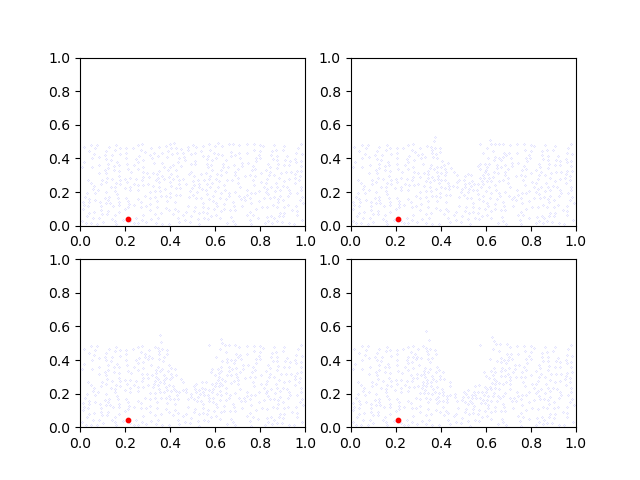
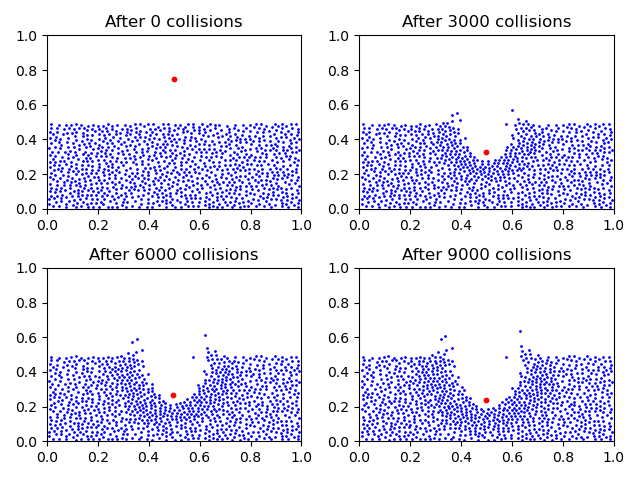
improved plot

diff --git a/problem4.py b/problem4.py
@@ -4,7 +4,7 @@ from functions import *
 
 #NOTE TO SELF: might be more effetive to write a function that just gives the positions, since these take time to calculate
 
-def initParticlesForProjectileImpact(N,m0,r0,m,r,v0): #m0 is the mass of the small particles, N=number of small particles
+def initParticlesForProjectileImpact(N,m0,r0,m,r,v): #m0 is the mass of the small particles, N=number of small particles
     #v0=downward speed of projectile particle
     print("Initializing particle array...")
     parr=np.zeros((N+1,7))
@@ -39,7 +39,7 @@ def initParticlesForProjectileImpact(N,m0,r0,m,r,v0): #m0 is the mass of the sma
     parr[N,X]=0.5
     parr[N,Y]=0.75
     parr[N,VX]=0
-    parr[N,VY]=-v0
+    parr[N,VY]=-v
     parr[N,M]=m
     parr[N,R]=r
 
@@ -71,48 +71,63 @@ def problem4Visualization(N,n,interval,start,m0,r0,m,r,v0,RC):
         plotCraterFormation(d,r0,r)
     print("done")
 
-def craterVisualization(parr,n,interval,start,RC):
-    # Xmin=0
-    # Xmax=1
-    # Ymin=0
-    # Ymax=1
-    #parr=initParticlesForProjectileImpact(N,m0,r0,m,r,v0)
-    data=simulationData(parr,n,interval,start,RC)
-    fig,ax=plt.subplots(2,2)
 
+#plots the particles positions for visualization of the formation of the crater
+def craterVisualization(parr,n,interval,start,RC):
+
+    Xmin=0
+    Xmax=1
+    Ymin=0
+    Ymax=1
+
+    data=simulationData(parr,n,interval,start,RC) #run simulation
+    fig,ax=plt.subplots(2,2)
+    N=len(parr)
+    gr=5 #radius for plotting ground particles
+    pr=20 #radius for projectile particle
+
+    #first subplot
     parr1=data[0]
     groundParticles1=parr1[:N-1]
     projectile1=parr1[N-1]
     ax[0,0].axis([Xmin,Xmax,Ymin,Ymax])
-    ax[0,0].scatter(groundParticles1[:,X],groundParticles1[:,Y],c="b",s=0.01)
-    ax[0,0].scatter(projectile1[X],projectile1[Y],c="r",s=r*r*50*50)
+    ax[0,0].scatter(groundParticles1[:,X],groundParticles1[:,Y],c="b",s=gr)
+    ax[0,0].scatter(projectile1[X],projectile1[Y],c="r",s=pr)
+    ax[0,0].set_title("After "+str(0)+" collisions")
 
+    #second subplot
     parr2=data[1]
     groundParticles2=parr2[:N-1]
     projectile2=parr2[N-1]
     ax[0,1].axis([Xmin,Xmax,Ymin,Ymax])
-    ax[0,1].scatter(groundParticles2[:,X],groundParticles2[:,Y],c="b",s=0.01)
-    ax[0,1].scatter(projectile2[X],projectile2[Y],c="r",s=r*r*50*50)
+    ax[0,1].scatter(groundParticles2[:,X],groundParticles2[:,Y],c="b",s=gr)
+    ax[0,1].scatter(projectile2[X],projectile2[Y],c="r",s=pr)
+    ax[0,1].set_title("After "+str(interval)+" collisions")
 
+    #third subplot
     parr3=data[2]
     groundParticles3=parr3[:N-1]
     projectile3=parr3[N-1]
     ax[1,0].axis([Xmin,Xmax,Ymin,Ymax])
-    ax[1,0].scatter(groundParticles3[:,X],groundParticles3[:,Y],c="b",s=0.01)
-    ax[1,0].scatter(projectile3[X],projectile3[Y],c="r",s=r*r*50*50)
+    ax[1,0].scatter(groundParticles3[:,X],groundParticles3[:,Y],c="b",s=gr)
+    ax[1,0].scatter(projectile3[X],projectile3[Y],c="r",s=pr)
+    ax[1,0].set_title("After "+str(interval*2)+" collisions")
 
+    #fourth subplot
     parr4=data[3]
     groundParticles4=parr4[:N-1]
     projectile4=parr4[N-1]
     ax[1,1].axis([Xmin,Xmax,Ymin,Ymax])
-    ax[1,1].scatter(groundParticles4[:,X],groundParticles4[:,Y],c="b",s=0.01)
-    ax[1,1].scatter(projectile4[X],projectile4[Y],c="r",s=r*r*50*50)
-
+    ax[1,1].scatter(groundParticles4[:,X],groundParticles4[:,Y],c="b",s=gr)
+    ax[1,1].scatter(projectile4[X],projectile4[Y],c="r",s=pr)
+    ax[1,1].set_title("After "+str(interval*3)+" collisions")
+    
+    plt.tight_layout()
     fig.savefig("p4Visualization")
     plt.show()
 
 
-
+#used to check how the energy changes
 def craterSimulation(parr,N,interval,RC):
 
     #initialization
@@ -130,8 +145,6 @@ def craterSimulation(parr,N,interval,RC):
 
 #notes: projectil energy decreases the whole time
 #ground particle energy increases, because they get energy from the projectile
- 
-
 
 
 
@@ -170,15 +183,15 @@ def massCraterSize(initialParr,masslist,N,interval,RC): #masslist is a list of m
 
 
 """values for the different parameters"""
-N=500 #number of ground particles
-n=8000 #number of collisions in simulation
+N=1000 #number of ground particles
+n=9000 #number of collisions in simulation
 interval=10 #interval between data sampling
 start=0 #start of data sampling
 m0=1#mass of ground particles
 r0=np.sqrt(1/(N*4*math.pi)) #radius of mass particles
-m=m0*10 #mass of projectile partile (as stated in problem text)
+m=m0*25 #mass of projectile partile (as stated in problem text)
 r=r0*5 #radius of projectile particle
-v0=5 #initial velocity of projectile particle
+v=5 #initial velocity of projectile particle
 RC=0.5
 
 
@@ -188,23 +201,24 @@ RC=0.5
 #0.9 for faster init!!!!!
 
 
-massList=np.linspace(m0,30*m0,5)
+#massList=np.linspace(m0,30*m0,5)
 
 """Initializing particle array"""
-#parr=initParticlesForProjectileImpact(N,m0,r0,m,r,v0)
+#parr=initParticlesForProjectileImpact(N,m0,r0,m,r,v)
 #np.save("particleArray.npy",parr) #save array as binary file
 
 initParticleArray=np.load("particleArray.npy")
-print("ok")
-newArray=initParticleArray.copy()
-newArray[N,M]=m
+# newArray=initParticleArray.copy()
+# newArray[N,M]=m
 
 
 
 #craterSimulation(newArray,N,100,RC)
 
-craterVisualization(initParticleArray,n,2000,0,RC)
+parrC=initParticlesForProjectileImpact(N,m0,r0,m,r,v)
+craterVisualization(parrC,n,3000,0,RC)
 
+#massList=[m0,7.5*m0,15*m0]
 #massCraterSize(initParticleArray,massList,N,interval,RC)
 
 #plotParameterVsCraterSize("MassCrater.npy","Projectile Mass","MassVsCraterPlot")

diff --git a/simulation.py b/simulation.py
@@ -9,10 +9,6 @@ from numba import jit
 #%load_ext line_profiler
 random.seed(1)
 
-
-#NOTE TO SELF: should probably calculate new collisions for ALL particles after every collision?
-#or make some kind of list to keep track of which particles have saved a collision with each current particle...
-
 """Colission count:
 The first element for each particle list is the particles current collision count
 Update the particles collision count for every collision
@@ -177,25 +173,19 @@ def nextHorizontalCollision(parr,i,events,time):
  
 
 
-#GANSKE JALLA Å BARE TA UT DELER AV FUNKSJONEN FOR Å JITTE DE MEN WHATEVER
 
+#optimalize calculation speed
 @jit(nopython = True)
 def computeStuff(i,j,parr):
-    Rij=parr[i,R]+parr[j,R] #radiuses added together??
+    Rij=parr[i,R]+parr[j,R] #radiuses added together
     deltaX=np.array([(parr[j,X]-parr[i,X]),(parr[j,Y]-parr[i,Y])])
-    deltaV=np.array([(parr[j,VX]-parr[i,VX]),(parr[j,VY]-parr[i,VY])])
+    deltaV=np.array([(parr[j,VX]-parr[i,VX]),(parr[j,VY]-parr[i,VY])]) #calculation as given in problem text
     VdotX=(np.dot(deltaV,deltaX))
     d=(VdotX)*(VdotX)-(np.dot(deltaV,deltaV))*((np.dot(deltaX,deltaX))-Rij*Rij)
-    return deltaX,deltaV,d,VdotX
+    return deltaX,deltaV,d,VdotX 
 
-"""
-@jit(nopython = True)
-def calculateDt(deltaV,deltaX,d):
-    return -(np.dot(deltaV,deltaX)+np.sqrt(d))/np.dot(deltaV,deltaV)
-    """
 
 #@jit(nopython = True)
-#FEIL svar når partiklene er inni hverandre
 def particlesColTime(i,j,parr,events,time): #p1 and p2 is the index of the particles rows in parr 
     deltaX, deltaV, d,VdotX=computeStuff(i,j,parr)
 
@@ -207,8 +197,6 @@ def particlesColTime(i,j,parr,events,time): #p1 and p2 is the index of the parti
         e=[deltaT+time,i,j,parr[i,C],parr[j,C]]  #last 2 entries are the current collisioncount for particles i and
         heapq.heappush(events,e)  #add event to heapq
 
-        #(parr[i,PL]).append(j)
-        #(parr[j, PL]).append(i)   #REMOVE??
 
 
 
@@ -285,14 +273,12 @@ def runSimulation(n,events,parr, t0,RC): #n is the number of valid iterations/co
                 Time=CollisionTime #updating time
                 nextCollisions(parr,events,cc[I],CollisionTime) #calculate new collisions for the colliding particle
                 k+=1
-                #print("Collision number: ",k," Time: ",Time,"\n")
 
             elif (cc[J]==-1): #if collision with horizontal wall
                 horizontalCollision(parr,cc[I],dt,RC)
                 Time=CollisionTime #updating time
                 nextCollisions(parr,events,cc[I],CollisionTime) #calculate new collisions for the colliding particle:
                 k+=1
-                #print("Collision number: ",k," Time: ",Time,"\n")
 
             elif (parr[cc[J],C]==cc[CCJ]): #if valid for second particle
                     particleCollision(parr,cc[I],cc[J],dt,RC)
@@ -300,28 +286,26 @@ def runSimulation(n,events,parr, t0,RC): #n is the number of valid iterations/co
                     Time=CollisionTime #updating time
                     nextCollisions(parr,events,cc[I],CollisionTime) #calculate new collisions for the colliding particle
                     k+=1
-                    #print("Collision number: ",k," Time: ",Time,"\n")
 
             if (k%1000==0): #just to keep track of how much time is left
                 print("collision number",k)
             
-    return Time     #return time at the end of the simulation    
+    return Time     #return current time at the end of the simulation    
 
                      
 
-
+#just runs the simulation for a given particle array
 def simulation(particleArray,n,RC): #particles, number of iterations in simulation
     eventQueue=firstCollisions(particleArray)
-    #plotPositionsAndVelocities(parrTest)
     runSimulation(n,eventQueue,particleArray,0,RC)
-    #plotPositionsAndVelocities(parrTest)
     return particleArray
 
+#runs the simulation for a given particle array, but saves data at given interval
 def simulationData(particleArray,n,interval,start,RC): #start=number of collisions before starting sampling, interval=number of collisions between sampling
     eventQueue=firstCollisions(particleArray)
     data=[]
     print("start")
-    if (start==0):
+    if (start==0): #copy initial array only if start of sampling set to zero
         data.append(particleArray.copy())
     Time=0.0 #set start time to zero
     for i in range(int(n/interval)+1):
@@ -329,7 +313,6 @@ def simulationData(particleArray,n,interval,start,RC): #start=number of collisio
         if (i*interval>=start): #save data
             print("data saved")
             data.append(particleArray.copy()) 
-        print(i*100*interval/n,"%")
     return data
 
 

diff --git a/functions.py b/functions.py
@@ -1,18 +1,20 @@
 import numpy as np
 from simulation import *
 
+
+#get the absoute values of the velocity for each particle in Parr
 def getVelocities(Parr):
     velocities=[]
     for p in Parr:
         velocities.append(np.sqrt(p[VX]*p[VX]+p[VY]*p[VY]))
     return velocities
 
-
+#plotting histogram of velocities
 def histogram(velocities):
     plt.hist(velocities,bins=101,density=True)
 
 
-#NB 2 degrees of freedom!!!!!!!!!!!!!!!!!!
+#NB 2 degrees 
 def HistogramMB(velocities,m,filename): #filename is a string containing the name to save the file as
     v=np.linspace(0,4)
     averageVelocity=np.sum(velocities)/len(velocities)
@@ -27,6 +29,7 @@ def HistogramMB(velocities,m,filename): #filename is a string containing the nam
     ax.set_ylabel("Number of particles")
     ax.hist(velocities,bins=51,density=True)
     ax.plot(v,mb)
+    plt.tight_layout()
     fig.savefig(filename)
     plt.show()
     return averageVelocity
@@ -38,13 +41,14 @@ def averageKineticEnergyAndVelocity(parr): #assumes same mass for whole array
     kineticEnergy=averageVelocity*averageVelocity*0.5*parr[1,M]
     return kineticEnergy, averageVelocity
 
-
+"""
 #Delete?
 def averageKineticEnergy(parr):
     velocities=getVelocities(parr)
     averageVelocity=np.sum(velocities)/len(velocities)
     kineticEnergy=averageVelocity*averageVelocity*0.5*parr[1,M]
     return kineticEnergy
+"""
 
 
 def totKinEnergy(parr):

diff --git a/problems.py b/problems.py
@@ -105,9 +105,9 @@ def problem3(N3,m0,n,interval,start,r0,v0,rc):
     fig1.suptitle("Average kinetic energy")
     ax1.set_xlabel("Number of collisions")
     ax1.set_ylabel("Kinetic energy")
-    ax1.plot(timesteps,kinE4m0,label="Kinetic Energy 4m0")
-    ax1.plot(timesteps,kinEm0,label="Kinetic Energy m0")
-    plt.legend()
+    ax1.plot(timesteps,kinE4m0,label="Kinetic Energy of particles with mass 4m0")
+    ax1.plot(timesteps,kinEm0,label="Kinetic Energy of particles with mass m0")
+    ax1.legend()
     fig1.savefig("KineticEneryPlot")
     plt.show()
 
@@ -116,8 +116,8 @@ def problem3(N3,m0,n,interval,start,r0,v0,rc):
     fig2.suptitle("Average velocity")
     ax2.set_xlabel("Number of collisions")
     ax2.set_ylabel("Velocity")
-    ax2.plot(timesteps,velm0,label="Velocity m0")
-    ax2.plot(timesteps,vel4m0,label="Velocity 4m0")
+    ax2.plot(timesteps,velm0,label="Velocity of particles with mass m0")
+    ax2.plot(timesteps,vel4m0,label="Velocity of particles with mass 4m0")
     ax2.legend()
     fig2.savefig("VelocityPlot")
     plt.show()
